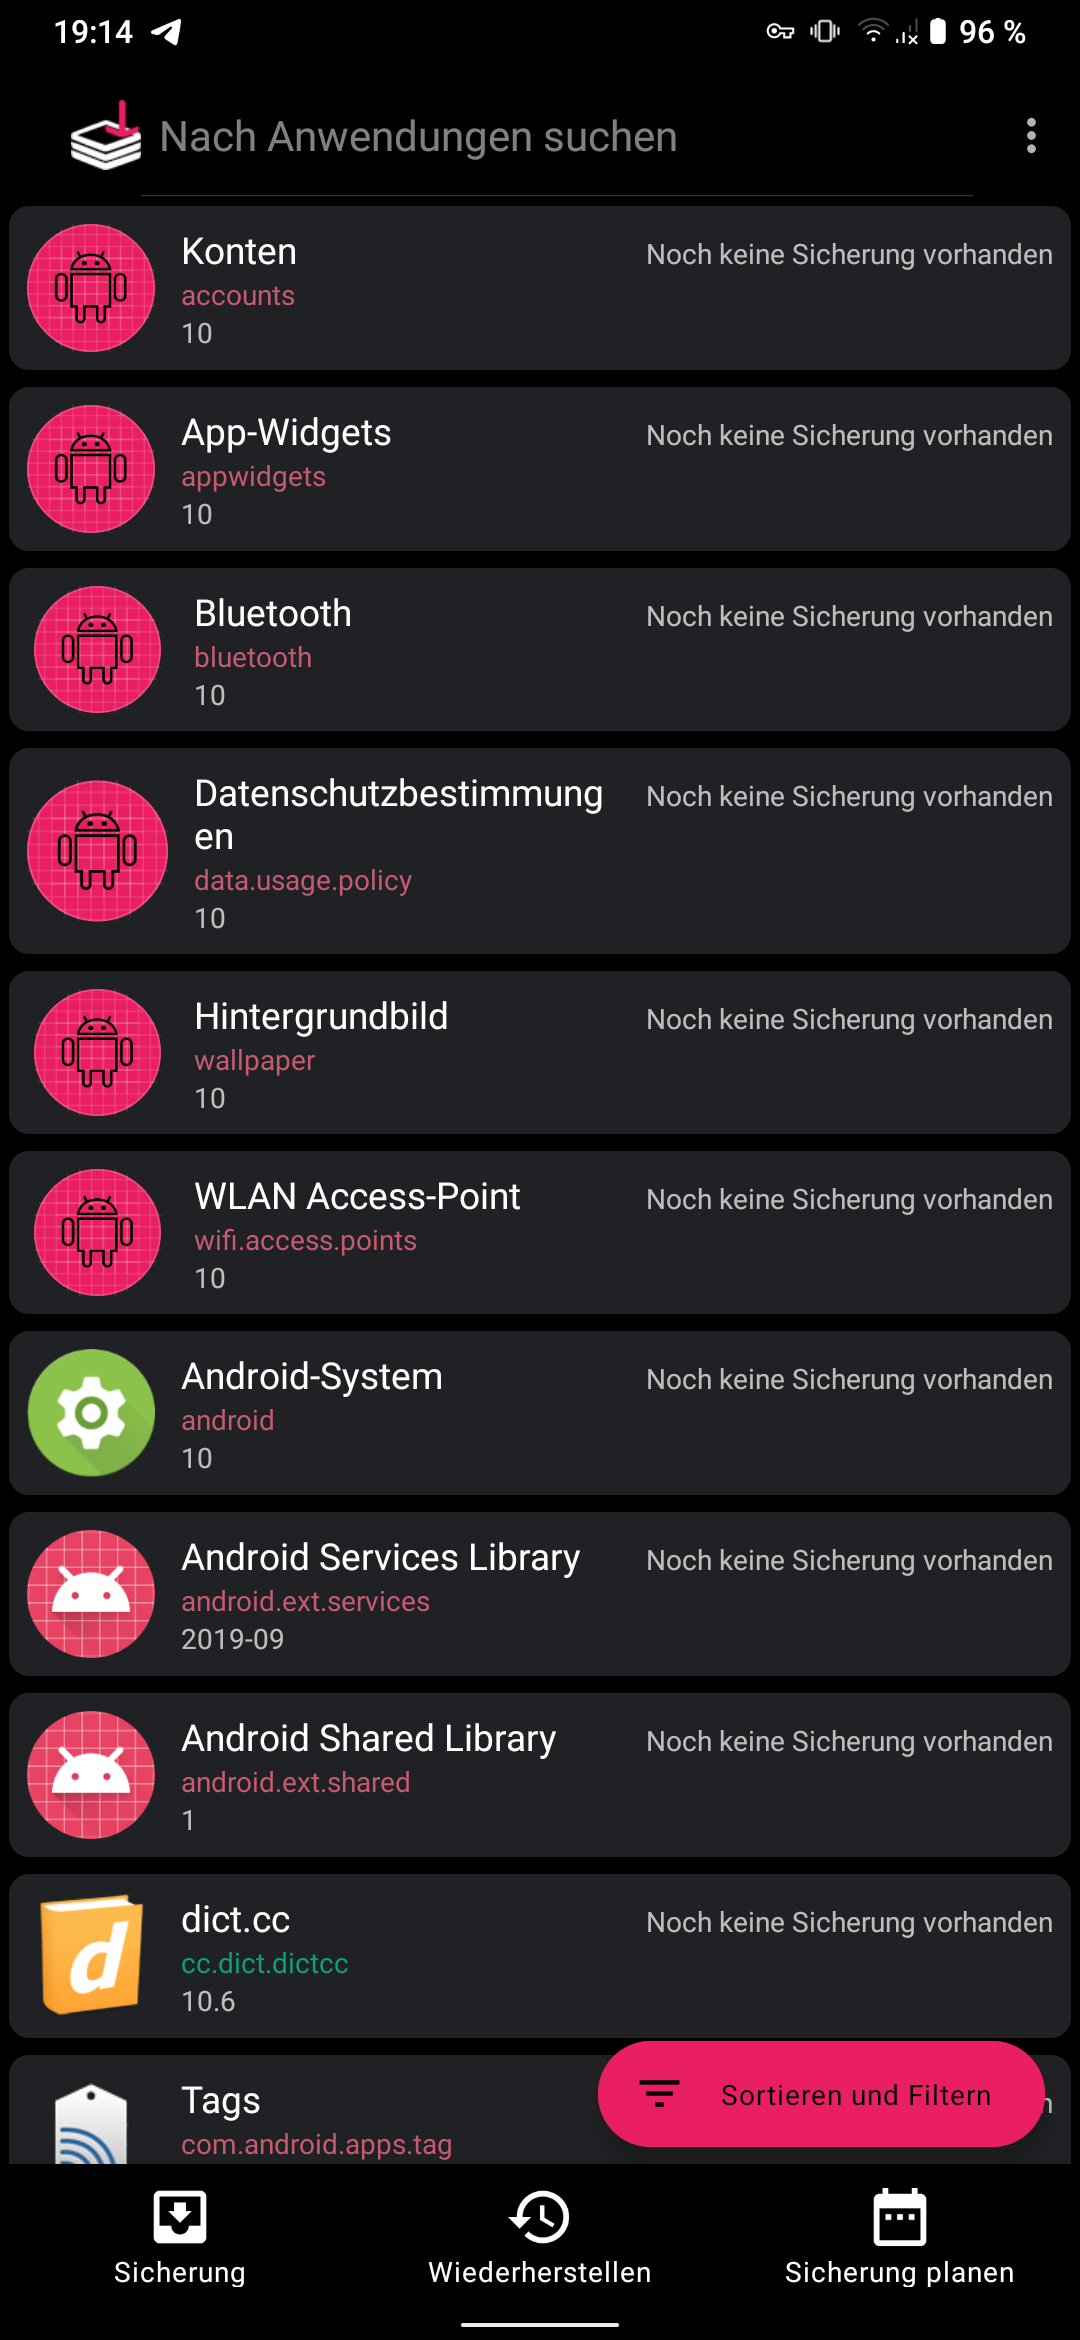
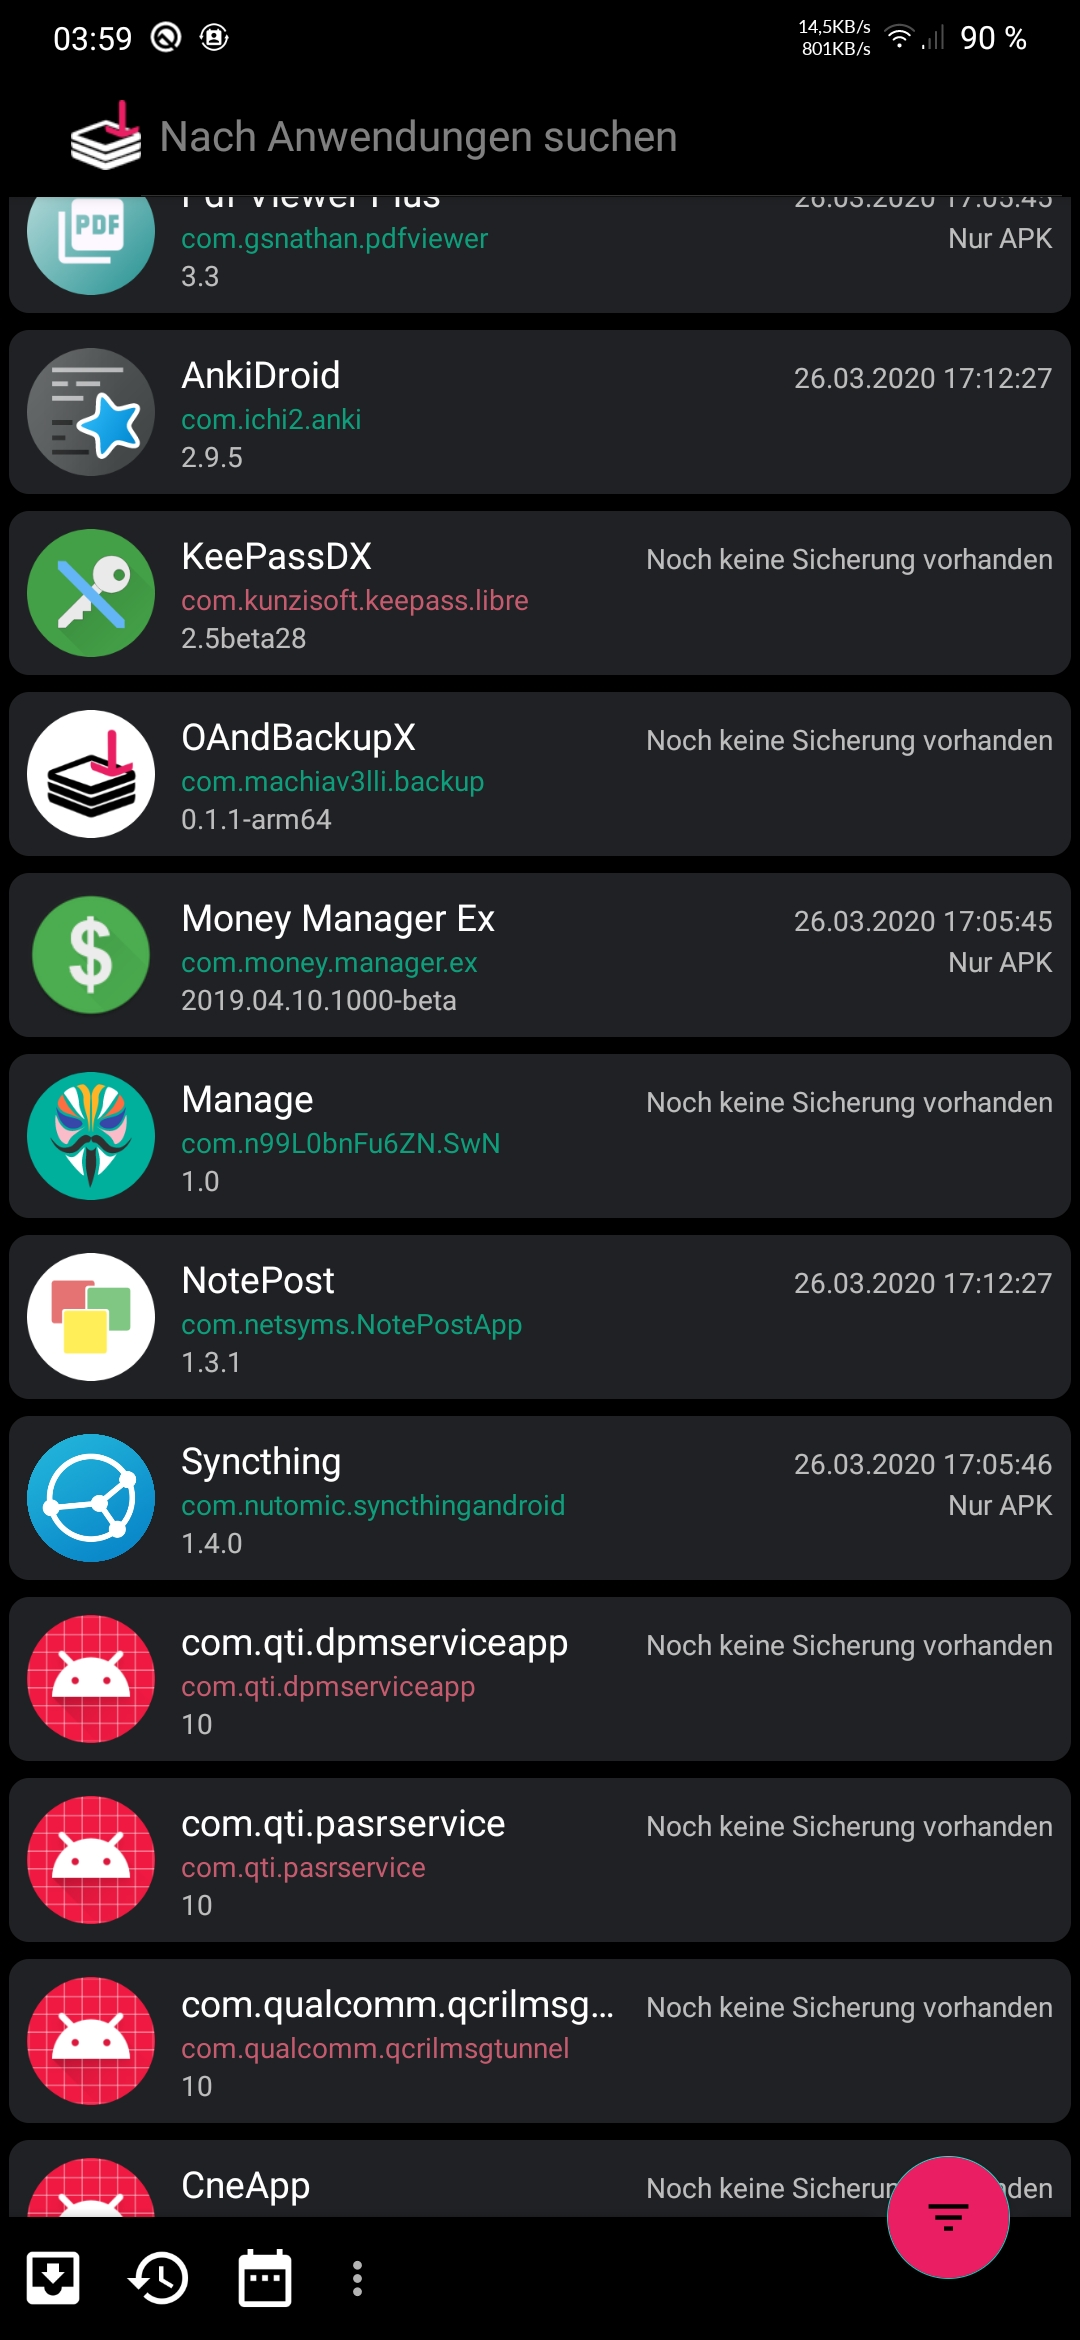
Release 0.1.2
* new Main UI
 * fixed refresh in Main

diff --git a/README.md b/README.md
@@ -22,6 +22,7 @@ backups can be scheduled with no limit on the number of individual schedules and
 - [ ] New android external storage permissions compatibility: fixed for Android 10 only for now with legacy mode(fix priority: med)
 - [ ] Update dialogs' UI
 - [ ] Updating UI and UX: Design proposales are always welcome
+- [ ] add more informative dialog when clicking an app in Main
 - [ ] You suggest!...
 
 

diff --git a/changelog.md b/changelog.md
@@ -1,6 +1,11 @@
 changelog
 =========
 
+0.1.2 (2020-03-27)
+--------------------
+* new Main UI
+* fixed refresh in Main
+
 0.1.1 (2020-03-25)
 -------------------
  * initial X release
